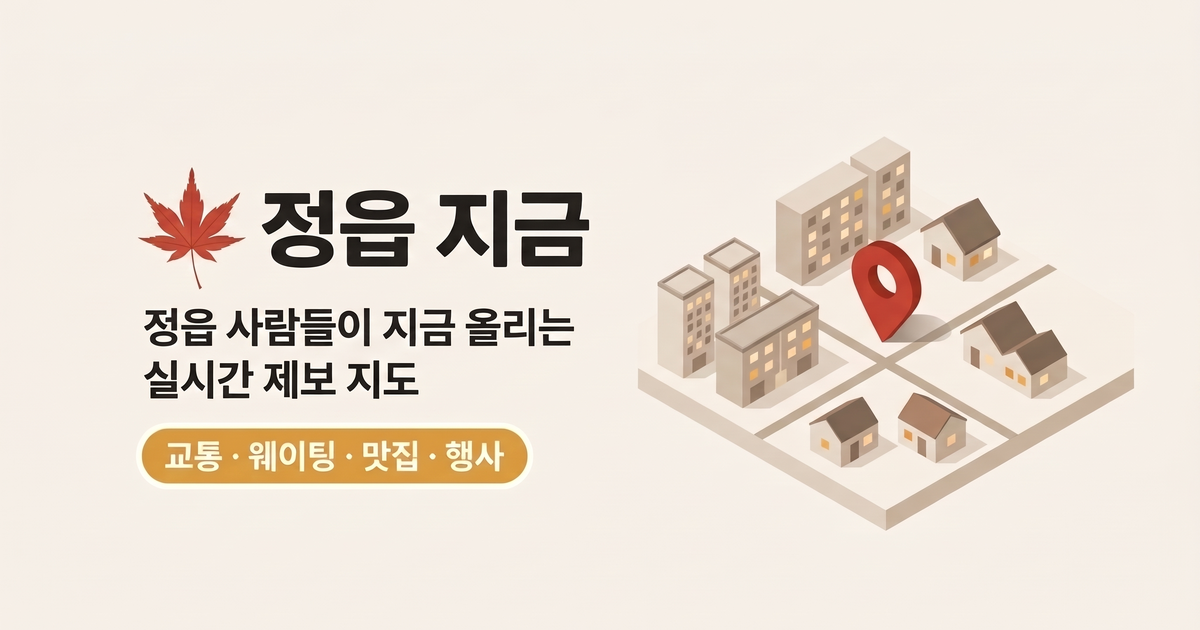
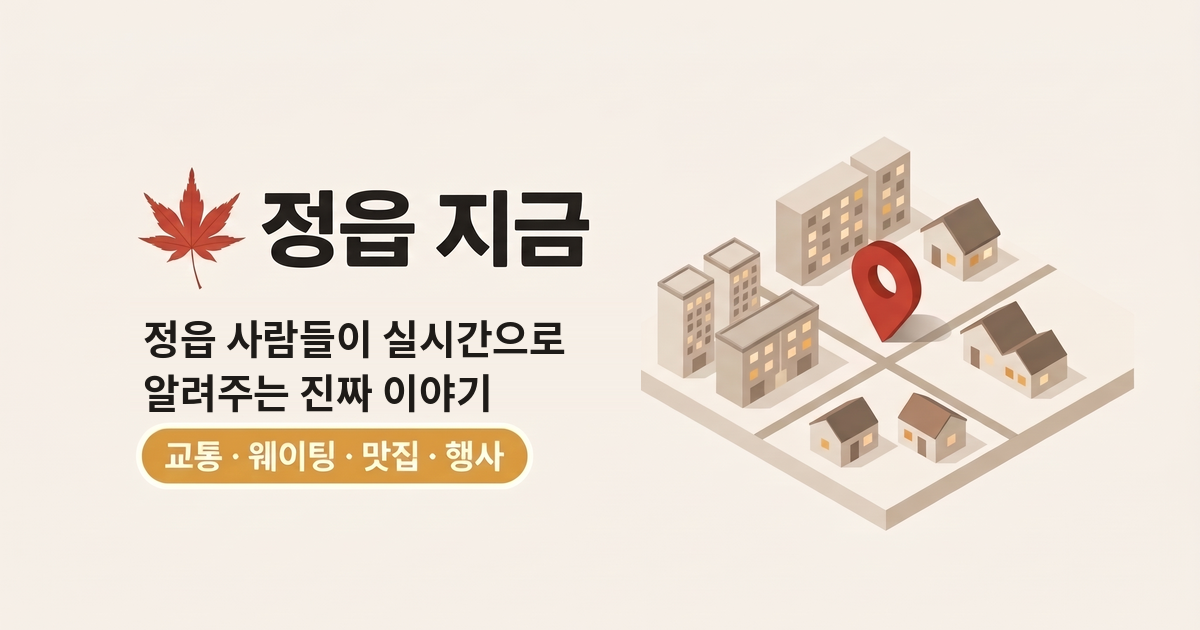
v129: 한 줄 소개 문구 변경(공유 글·링크 미리보기·미리보기 그림)
Claude-Session: https://claude.ai/code/session_012AGESi63iQ99mLN8yTefdK

Changed region(s): [[0.1233, 0.4825, 0.4933, 0.6635]]

diff --git a/index.html b/index.html
@@ -4,21 +4,21 @@
 <meta charset="utf-8">
 <meta name="viewport" content="width=device-width, initial-scale=1">
 <title>정읍 지금</title>
-<meta name="description" content="정읍 사람들이 지금 올리는 실시간 제보 지도 (교통 · 웨이팅 · 맛집 · 행사)">
+<meta name="description" content="정읍 사람들이 실시간으로 알려주는 진짜 이야기 (교통 · 웨이팅 · 맛집 · 행사)">
 <meta property="og:type" content="website">
 <meta property="og:site_name" content="정읍 지금">
 <meta property="og:locale" content="ko_KR">
 <meta property="og:url" content="https://dujin986-bit.github.io/jeongeup-map/">
 <meta property="og:title" content="정읍 지금">
-<meta property="og:description" content="정읍 사람들이 지금 올리는 실시간 제보 지도 (교통 · 웨이팅 · 맛집 · 행사)">
-<meta property="og:image" content="https://dujin986-bit.github.io/jeongeup-map/og-image.png">
+<meta property="og:description" content="정읍 사람들이 실시간으로 알려주는 진짜 이야기 (교통 · 웨이팅 · 맛집 · 행사)">
+<meta property="og:image" content="https://dujin986-bit.github.io/jeongeup-map/og-image.png?v=129">
 <meta property="og:image:width" content="1200">
 <meta property="og:image:height" content="630">
-<meta property="og:image:alt" content="정읍 지금 - 정읍 사람들이 지금 올리는 실시간 제보 지도">
+<meta property="og:image:alt" content="정읍 지금 - 정읍 사람들이 실시간으로 알려주는 진짜 이야기">
 <meta name="twitter:card" content="summary_large_image">
 <meta name="twitter:title" content="정읍 지금">
-<meta name="twitter:description" content="정읍 사람들이 지금 올리는 실시간 제보 지도 (교통 · 웨이팅 · 맛집 · 행사)">
-<meta name="twitter:image" content="https://dujin986-bit.github.io/jeongeup-map/og-image.png">
+<meta name="twitter:description" content="정읍 사람들이 실시간으로 알려주는 진짜 이야기 (교통 · 웨이팅 · 맛집 · 행사)">
+<meta name="twitter:image" content="https://dujin986-bit.github.io/jeongeup-map/og-image.png?v=129">
 <link rel="manifest" href="manifest.json">
 <meta name="theme-color" content="#C83E2B">
 <meta name="apple-mobile-web-app-capable" content="yes">
@@ -28,7 +28,7 @@
 <link href="https://unpkg.com/maplibre-gl@4.7.1/dist/maplibre-gl.css" rel="stylesheet">
 <link rel="preconnect" href="https://cdn.jsdelivr.net" crossorigin>
 <link rel="stylesheet" href="https://cdn.jsdelivr.net/gh/orioncactus/pretendard@v1.3.9/dist/web/static/pretendard-dynamic-subset.css">
-<link rel="stylesheet" href="style.css?v=128">
+<link rel="stylesheet" href="style.css?v=129">
 </head>
 <body>
 <div id="map"></div>
@@ -95,7 +95,7 @@
 <a id="live-exit" href="./">방송 모드 끄기 (Esc)</a>
 <div id="help" hidden></div>
 <div id="tut" hidden><div id="tut-hole"></div><div id="tut-tip"><div id="tut-txt"></div><div id="tut-row"><span id="tut-n"></span><button id="tut-skip">건너뛰기</button><button id="tut-next">다음</button></div></div></div>
-<div id="ver">v128</div>
+<div id="ver">v129</div>
 <div id="comm" hidden>
   <div class="comm-grab" aria-hidden="true"></div>
   <div class="comm-top"><button id="comm-back" class="chip">← 지도</button><strong>정읍 이야기</strong><button id="comm-refresh" class="chip">🔄</button></div>
@@ -110,7 +110,7 @@
 
 <script src="https://unpkg.com/maplibre-gl@4.7.1/dist/maplibre-gl.js"></script>
 <script src="https://cdn.jsdelivr.net/npm/@supabase/supabase-js@2"></script>
-<script src="data.js?v=128"></script>
-<script src="app.js?v=128"></script>
+<script src="data.js?v=129"></script>
+<script src="app.js?v=129"></script>
 </body>
 </html>

diff --git a/app.js b/app.js
@@ -1398,7 +1398,7 @@ qEl.addEventListener("blur", () => setTimeout(() => { if (document.activeElement
   b.onclick = async () => {
     const old = b.textContent;
     try {
-      if (navigator.share) { await navigator.share({ title: "정읍 지금", text: "정읍 사람들이 지금 올리는 실시간 제보 지도", url }); return; }
+      if (navigator.share) { await navigator.share({ title: "정읍 지금", text: "정읍 사람들이 실시간으로 알려주는 진짜 이야기", url }); return; }
     } catch (e) { if (e && e.name === "AbortError") return; }
     try { await navigator.clipboard.writeText(url); b.textContent = "✓ 주소 복사됨"; }
     catch (e) { b.textContent = "주소창에서 복사해 주세요"; }
@@ -1813,7 +1813,7 @@ const SFX_GAIN = { open: 0.7, close: 0.7, on: 0.8, off: 0.8, done: 0.9, win: 1, 
 const sfxBuf = {}; let sfxLoading = false;
 function sfxLoad() {
   if (sfxLoading || !AC) return; sfxLoading = true;
-  for (const k in SFX_FILES) fetch("sounds/" + SFX_FILES[k] + ".mp3?v=128").then(r => r.arrayBuffer()).then(b => new Promise((ok, no) => AC.decodeAudioData(b, ok, no))).then(buf => { sfxBuf[k] = buf; }).catch(() => {});
+  for (const k in SFX_FILES) fetch("sounds/" + SFX_FILES[k] + ".mp3?v=129").then(r => r.arrayBuffer()).then(b => new Promise((ok, no) => AC.decodeAudioData(b, ok, no))).then(buf => { sfxBuf[k] = buf; }).catch(() => {});
 }
 function sfx(kind) {
   if (!sndOn || !AC) return;

diff --git a/admin.html b/admin.html
@@ -81,7 +81,7 @@
 
 <script src="https://cdn.jsdelivr.net/npm/@supabase/supabase-js@2"></script>
 <script src="https://unpkg.com/maplibre-gl@4.7.1/dist/maplibre-gl.js"></script>
-<script src="data.js?v=128"></script>
+<script src="data.js?v=129"></script>
 <script>
 const sb = window.supabase.createClient(SUPABASE_URL, SUPABASE_KEY);
 const TABS = [["pending", "대기"], ["approved", "승인됨"], ["hidden", "숨김"], ["notice", "공지"], ["wx", "날씨"], ["fix", "수정요청"], ["fb", "고쳐줘"], ["talk", "얘기방"], ["log", "편집기록"], ["map", "지도 수정 ↗"]];

diff --git a/sw.js b/sw.js
@@ -1,4 +1,4 @@
-const CACHE="jeongeup-v128";
+const CACHE="jeongeup-v129";
 const SHELL=["./","index.html","admin.html","style.css","data.js","app.js","manifest.json","admin-manifest.json"];
 self.addEventListener("install",e=>{e.waitUntil(caches.open(CACHE).then(c=>c.addAll(SHELL)).catch(()=>{}));self.skipWaiting();});
 self.addEventListener("activate",e=>{e.waitUntil(caches.keys().then(k=>Promise.all(k.filter(x=>x!==CACHE).map(x=>caches.delete(x)))).then(()=>self.clients.claim()));});
